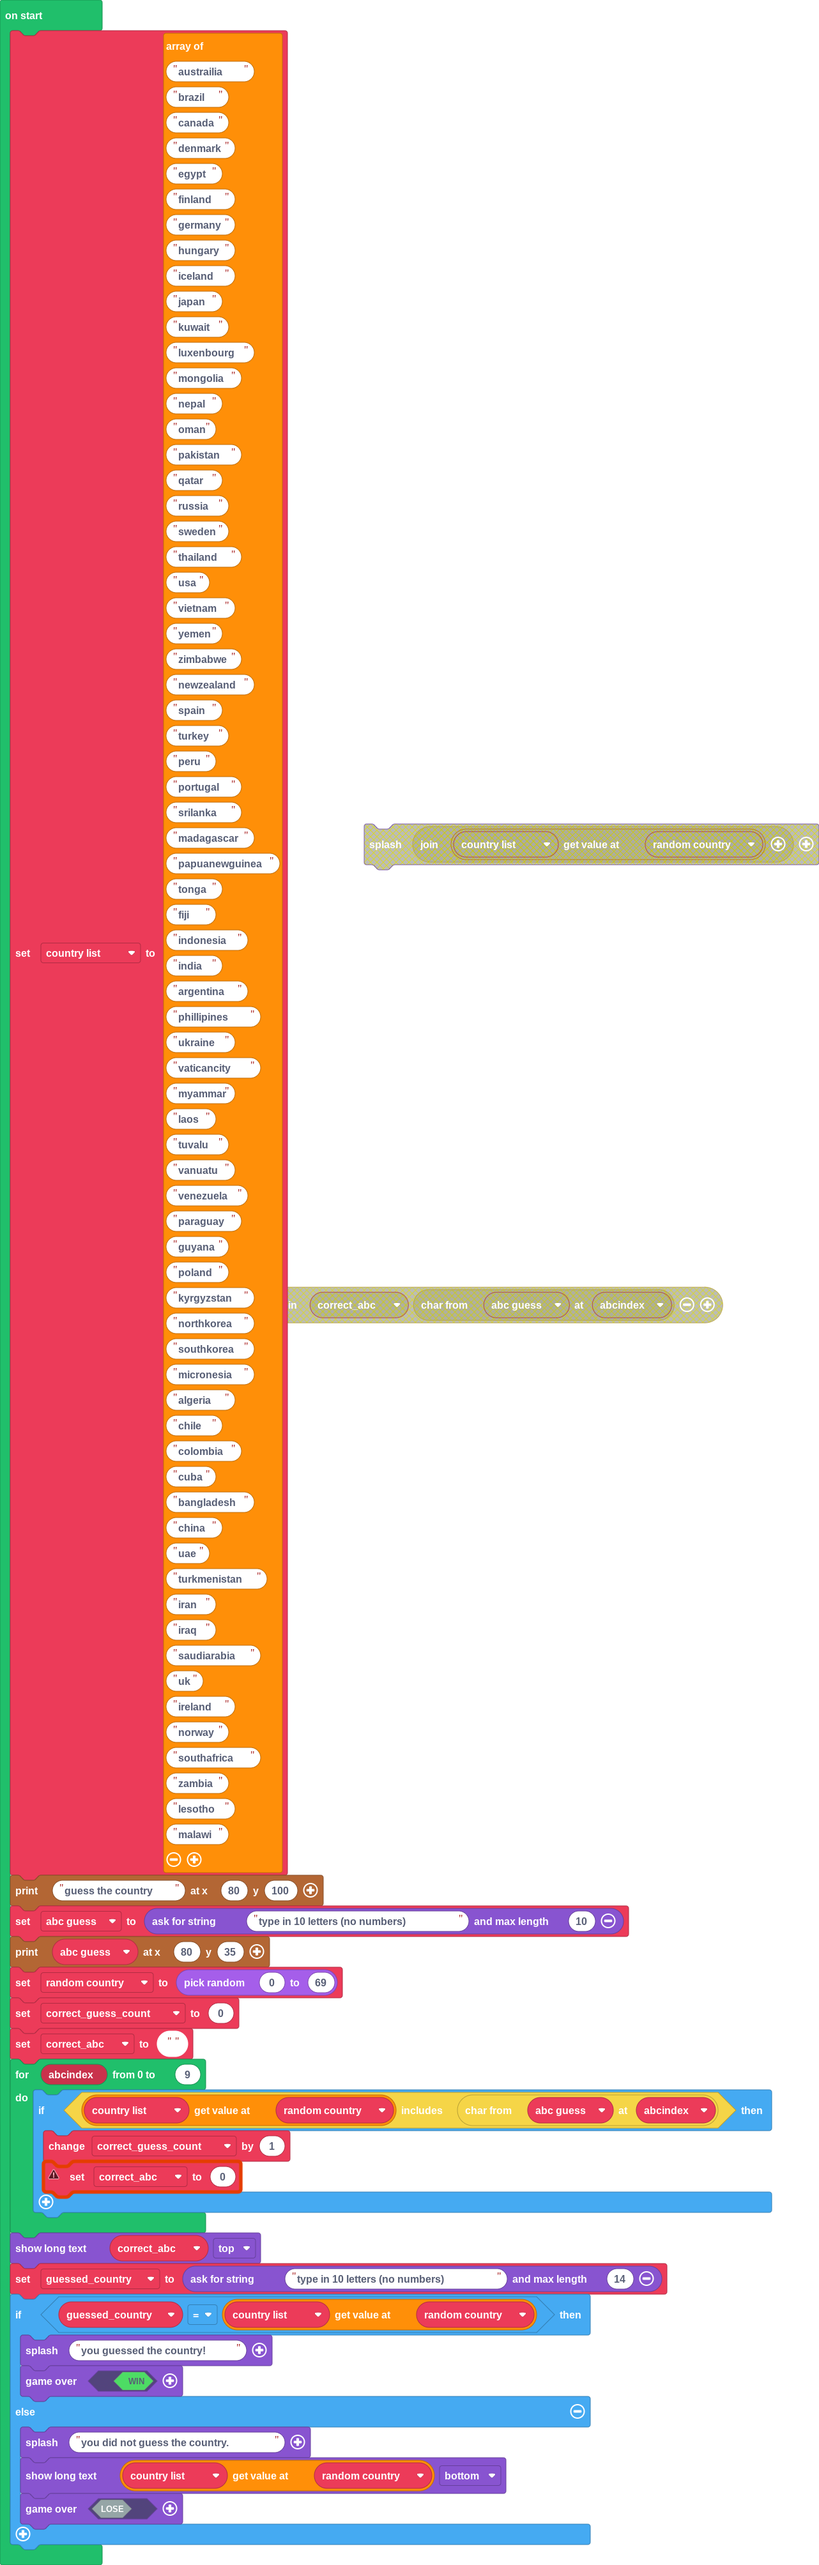
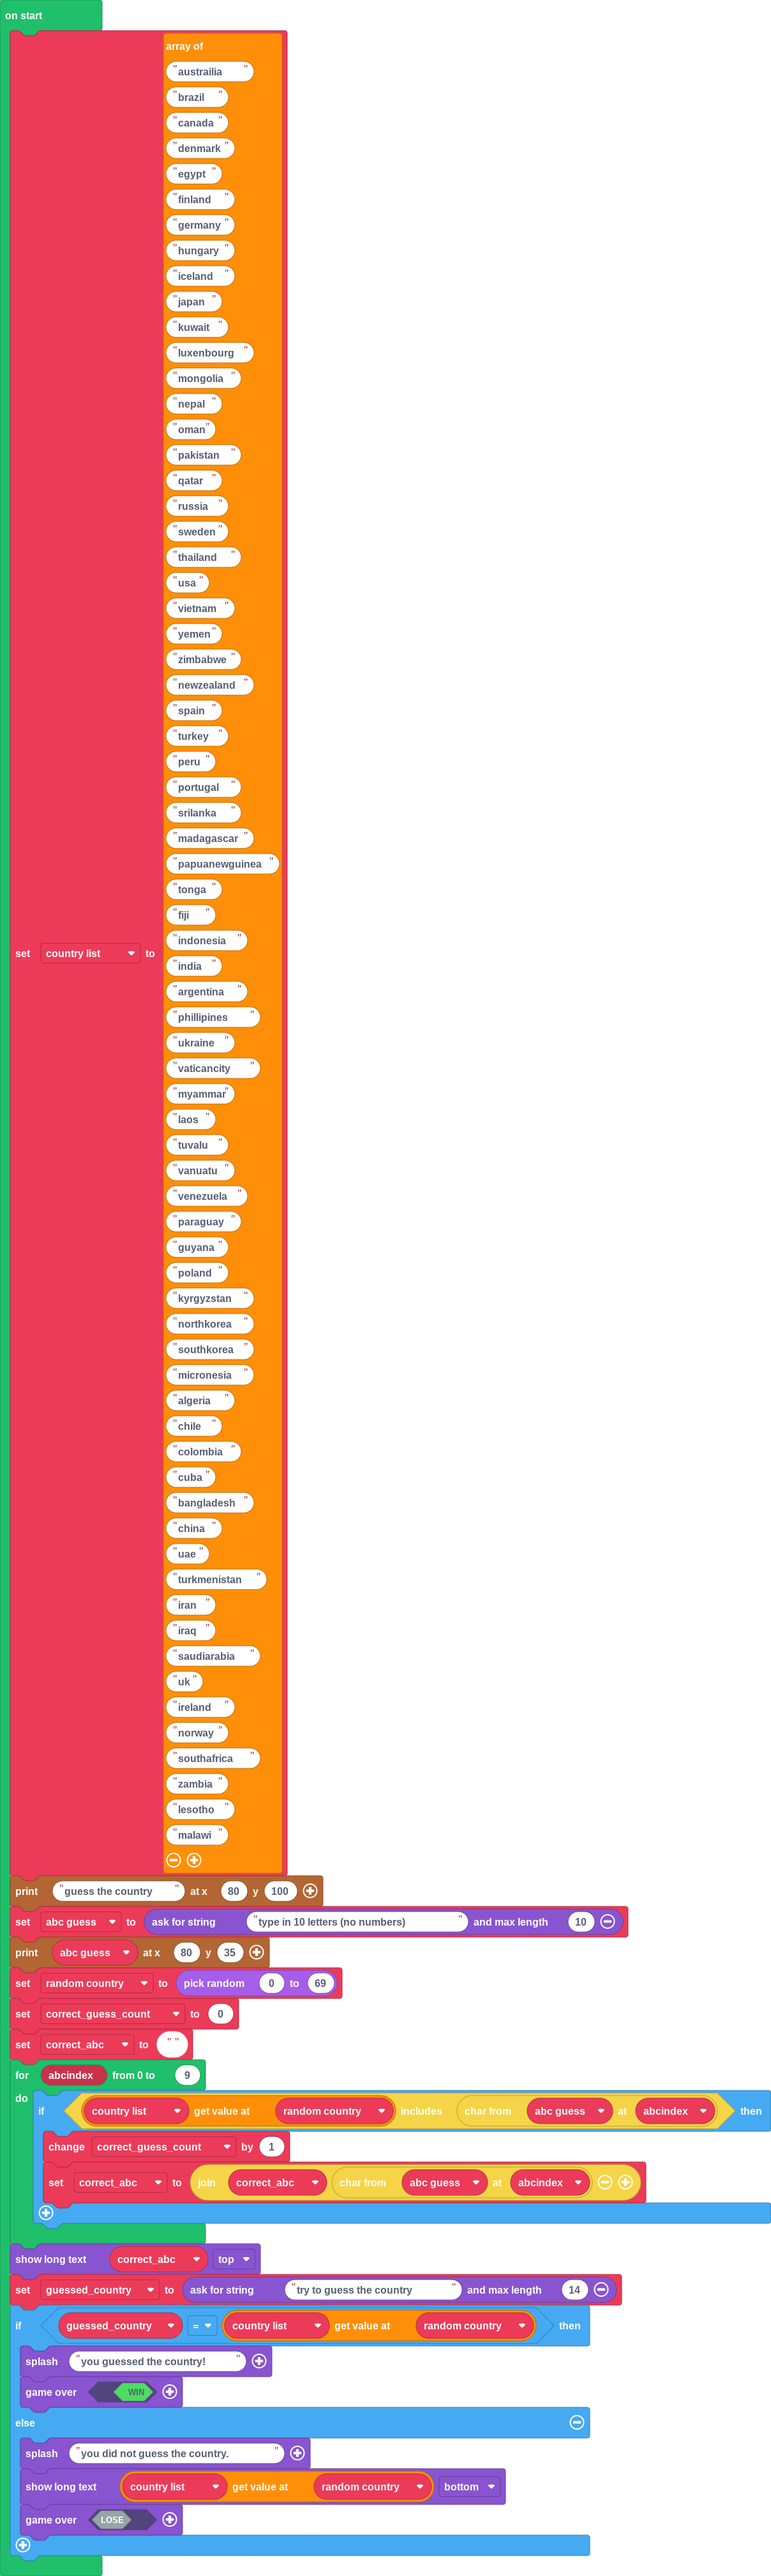
Update main.blocks, main.ts

diff --git a/main.ts b/main.ts
@@ -79,11 +79,11 @@ let correct_abc = ""
 for (let abcindex = 0; abcindex <= 9; abcindex++) {
     if (country_list[random_country].includes(abc_guess.charAt(abcindex))) {
         correct_guess_count += 1
-        correct_abc = 0
+        correct_abc = "" + correct_abc + abc_guess.charAt(abcindex)
     }
 }
 game.showLongText(correct_abc, DialogLayout.Top)
-let guessed_country = game.askForString("type in 10 letters (no numbers)", 14)
+let guessed_country = game.askForString("try to guess the country", 14)
 if (guessed_country == country_list[random_country]) {
     game.splash("you guessed the country!")
     game.over(true)
